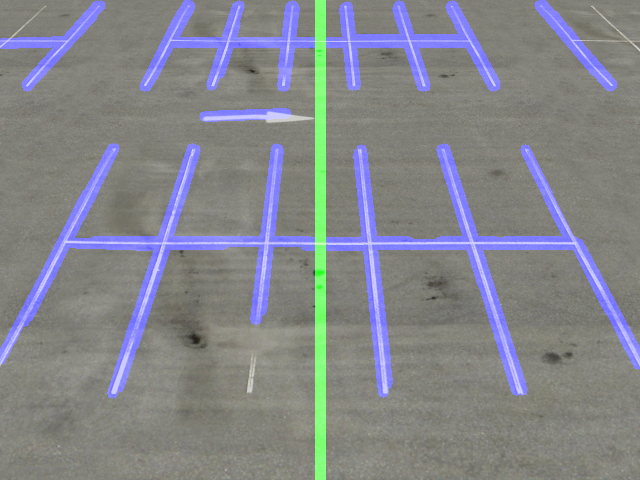
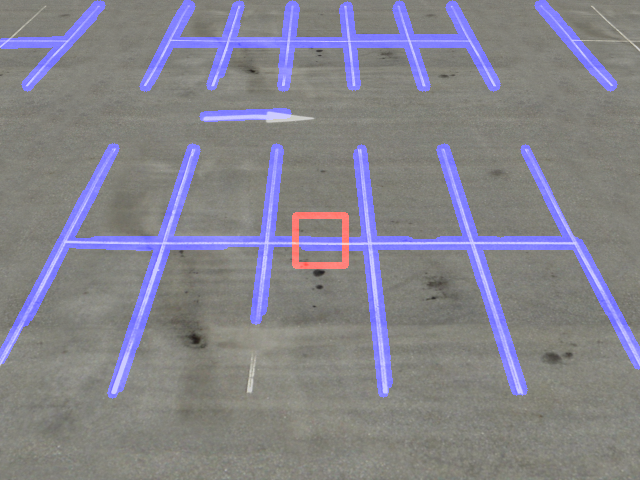
yesss

Changed region(s): [[0.4375, 0.0, 0.5625, 1.0]]

diff --git a/line_detect.py b/line_detect.py
@@ -11,6 +11,7 @@ gray = cv2.cvtColor(img, cv2.COLOR_BGR2GRAY)
 kernel_size = 5
 blur_gray = cv2.GaussianBlur(gray,(kernel_size, kernel_size), 0)
 
+# the canny function is magical. see https://docs.opencv.org/3.1.0/da/d22/tutorial_py_canny.html
 low_threshold = 50
 high_threshold = 150
 edges = cv2.Canny(blur_gray, low_threshold, high_threshold)
@@ -24,6 +25,7 @@ line_image = np.copy(img) * 0  # creating a blank to draw lines on
 
 # Run Hough on edge detected image
 # Output "lines" is an array containing endpoints of detected line segments
+# array element is structed as x1,y1,x2,y2
 lines = cv2.HoughLinesP(edges, rho, theta, threshold, np.array([]),
                             min_line_length, max_line_gap)
 
@@ -31,11 +33,55 @@ for line in lines:
     for x1,y1,x2,y2 in line:
         cv2.line(line_image,(x1,y1),(x2,y2),(255,0,0),10)
 
-# Draw a line down the center of the image
+# Draw a test rectangle down on the image
 height, width, channels = line_image.shape
-cv2.line(line_image, (width/2, 0), (width/2, height), (0,255,0), 10)
+offset = 25
+minX = width/2-offset
+minY = height/2-offset
+maxX = width/2+offset
+maxY = height/2+offset
+
+cv2.rectangle(line_image, (minX, minY), (maxX, maxY), (0,0,255), 5)
 
 # Draw the lines on the image
 lines_edges = cv2.addWeighted(img, 0.8, line_image, 1, 0)
 
 cv2.imwrite('sample_y.png', lines_edges)
+
+# https://stackoverflow.com/questions/1585525/how-to-find-the-intersection-point-between-a-line-and-a-rectangle
+# rectDims takes x1,y1,x2,y2
+# lines is an array of array
+# output: true if the rectangle dimensions intersect with a line
+def isIntersect(line, minX, minY, maxX, maxY):
+    for x1,y1,x2,y2 in line:
+        if ((x1 <= minX and x2 <= minX) or \
+            (y1 <= minY and y2 <= minY) or \
+            (x1 >= maxX and x2 >= maxX) or \
+            (y1 >= maxY and y2 >= maxY)):
+            return False
+        
+        m = (y2 - y1) / (x2 - x1)
+        
+        y = m * (minX - x1) + y1
+        if (y > minY and y < maxY): 
+            return True
+        y = m * (maxX - x1) + y1
+        if (y > minY and y < maxY): 
+            return True
+
+        x = (minY - y1) / m + x1
+        if (x > minX and x < maxX):
+            return True
+
+        x = (maxY - y1) / m + x1
+        if (x > minX and x < maxX):
+            return True
+        
+        return False
+
+for line in lines:
+    if (isIntersect(line, minX, minY, maxX, maxY) == True):
+        print("Intersection occurred")
+
+#for line in lines:
+ #   isIntersect(line, minX, minY, maxX, maxY)
